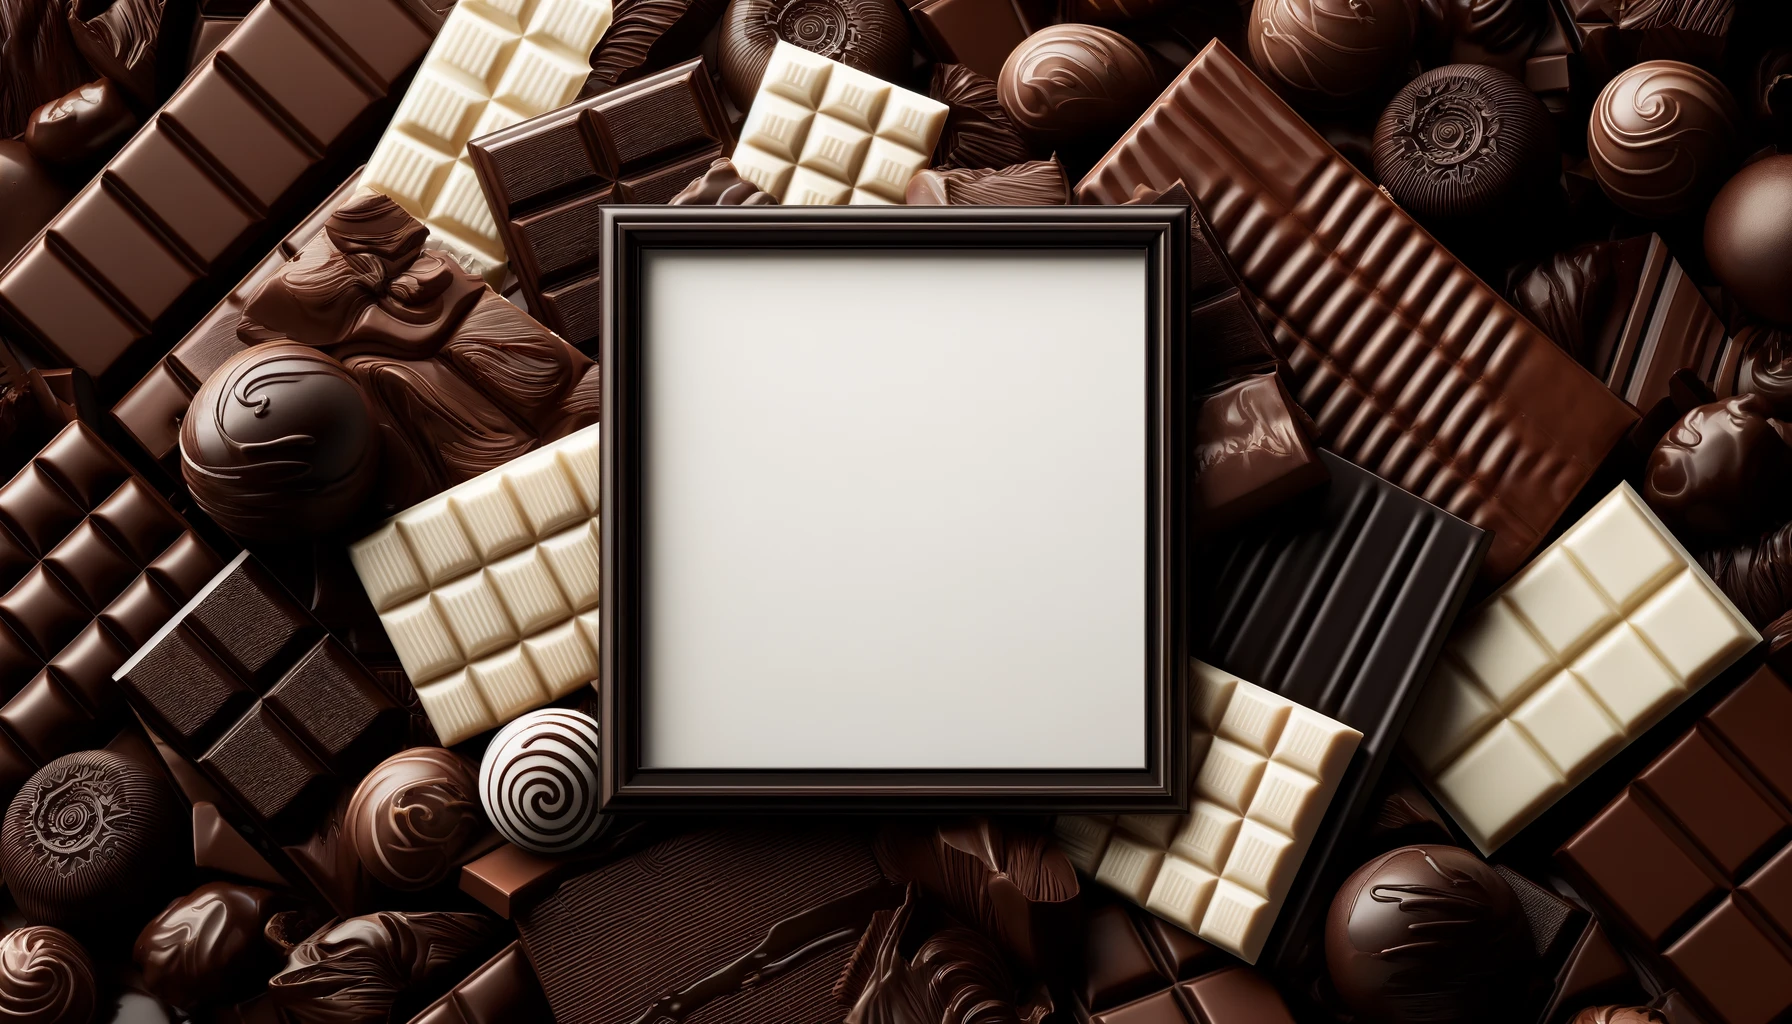
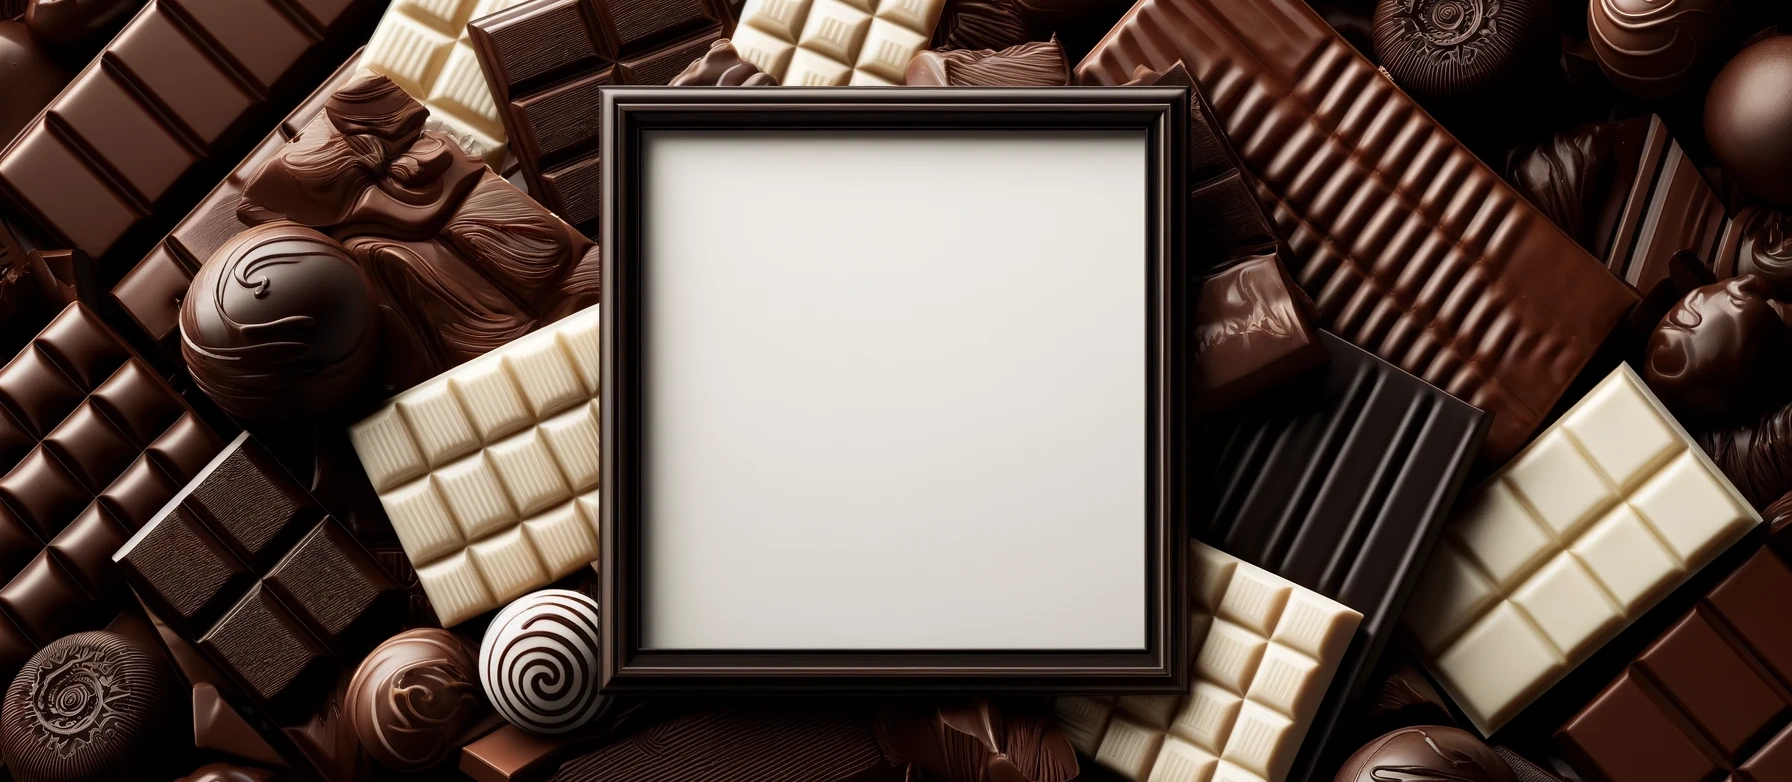
Size fix

diff --git a/src/Screens/MemoryScreen.js b/src/Screens/MemoryScreen.js
@@ -14,7 +14,7 @@ const BackgroundImage = require('../../assets/chocolate-background.webp');
 
 let timerInterval;
 const containerWidth = screenWidth * 0.9;
-const containerHeight = screenHeight * 0.9;
+const containerHeight = screenHeight * 0.8;
 
 // Shuffle and select unique pairs based on the required pair count
 const shuffleAndSelectCards = (pairCount) => {
@@ -121,26 +121,11 @@ const MemoryScreen = ({ route, navigation }) => {
         return (
             <Popup
                 isVisible={userResultPopupVisibility}
-                onClose={() => setUserResultPopupVisibility(false)}
-                titleText={'Rezultat Kviza'}
+                titleText={'Rezultat Spomina'}
+                messageText = {`Bravo, ${user}!\nZa zmago si potreboval/-a ${turns} potez!\nUpoštevajoč tvoj čas, je tvoj rezultat: ${score}`}
                 cancelOption={true}
-                wrapContent={
-                    <View style={{ alignSelf: 'center', justifyContent: 'center' }}>
-                        <ThemeText type={'popupBodyText'} style={{textAlign:'center'}}>
-                            {`Bravo, ${user}!`}
-                        </ThemeText>
-                        <ThemeText type={'popupBodyText'} style={{textAlign:'center'}}>
-                            {`You won in ${turns} turns!`}
-                        </ThemeText>
-                        <ThemeText type={'popupBodyText'} style={{textAlign:'center'}}>
-                            {`Upoštevajoč tvoj čas, je tvoj rezultat: ${score}`}
-                        </ThemeText>
-                        <View style={{ alignSelf: 'center', justifyContent: 'space-around', flexDirection: 'row', marginTop: screenHeight * 0.02 }}>
-                            <CustomButton type={'primary'} text={'Prekliči'} onButtonPress={() => setUserResultPopupVisibility(false)} style={{width: screenWidth * 0.1, marginRight: screenWidth * 0.01}}/>
-                            <CustomButton type={'primary'} text={'Potrdi'} onButtonPress={() => {setUserResultPopupVisibility(false); navigation.navigate('ListOfResultsScreen', { score, gridSize })}} style={{width: screenWidth * 0.1}} />
-                        </View>
-                    </View>
-                }
+                onClose={() => setUserResultPopupVisibility(false)}
+                onRightButtonPress={() => {setUserResultPopupVisibility(false); navigation.navigate('ListOfResultsScreen', { score, gridSize })}}                    
             />
         )
     }
@@ -171,7 +156,7 @@ const MemoryScreen = ({ route, navigation }) => {
                     {lastClickedCardName ? (
                         <ThemeText type='headerText'>{lastClickedCardName}</ThemeText>
                     ) : (
-                        <ThemeText type='headerText'>Click a card to see its name</ThemeText>
+                        <ThemeText type='headerText'>Klikni kartico, da vidiš njeno ime</ThemeText>
                     )}
                 </View>
                 <View style={styles.clockContainer}>
@@ -211,6 +196,9 @@ const MemoryScreen = ({ route, navigation }) => {
                         );
                     })}
                 </View>
+            </View>
+            <View style={styles.headerContainer}>
+                
             </View>
         </ImageBackground>
     );

diff --git a/src/Screens/HomeScreen.js b/src/Screens/HomeScreen.js
@@ -4,6 +4,7 @@ import { useFocusEffect } from '@react-navigation/native';
 import Toast from 'react-native-toast-message';
 import { ThemeContext, UserContext } from '../Context';
 import { ThemeInput, CustomButton } from '../Components';
+import { fontSize as FS } from '../Constants/Dimensions';
 import AsyncStorage from '@react-native-async-storage/async-storage';
 import { Picker } from '@react-native-picker/picker';
 
@@ -30,7 +31,7 @@ const HomeScreen = ({ navigation }) => {
     >
       <View style={{ flex: 1, alignItems: 'center', justifyContent: 'center', paddingHorizontal: 10 }}>
         <ThemeInput
-          style={{ marginVertical: 7 }}
+          style={{ marginTop: FS * 0.5}}
           label="Tvoje ime in priimek"
           required={true}
           returnKeyType="done"
@@ -44,7 +45,7 @@ const HomeScreen = ({ navigation }) => {
 
         <Picker
           selectedValue={gridSize}
-          style={{ height: 50, width: 200 }}
+          style={{ padding: FS * 0.1, width: '25%', backgroundColor: theme.secondaryColor, marginTop: FS * 0.5, borderRadius: FS * 0.5 }}
           onValueChange={(itemValue) => setGridSize(itemValue)}
         >
           <Picker.Item label="3x4 (12 cards)" value="3x4" />
@@ -53,24 +54,24 @@ const HomeScreen = ({ navigation }) => {
           <Picker.Item label="6x5 (30 cards)" value="6x5" />
           <Picker.Item label="6x6 (36 cards)" value="6x6" />
         </Picker>
-
-        <CustomButton
-          text="Začni s kvizom"
-          type="secondary"
-          style={{ backgroundColor: theme.primaryColor, color: theme.secondaryColor }}
-          onButtonPress={() => {
-            if (userName) {
-              setUser(userName); // Set the user name in context
-              navigation.navigate('MemoryScreen', { gridSize }); // Pass grid size to MemoryScreen
-            } else {
-              Toast.show({
-                type: 'info',
-                text1: 'Najprej vnesi svoje ime in priimek',
-                visibilityTime: 2500,
-              });
-            }
-          }}
-        />
+        <View style={{ marginTop: FS * 0.5 }}>
+          <CustomButton
+            text="Začni s kvizom"
+            type="primary"            
+            onButtonPress={() => {
+              if (userName) {
+                setUser(userName); // Set the user name in context
+                navigation.navigate('MemoryScreen', { gridSize }); // Pass grid size to MemoryScreen
+              } else {
+                Toast.show({
+                  type: 'info',
+                  text1: 'Najprej vnesi svoje ime in priimek',
+                  visibilityTime: 2500,
+                });
+              }
+            }}
+          />
+        </View>
       </View>
     </ImageBackground>
   );

diff --git a/src/Components/CustomButton.js b/src/Components/CustomButton.js
@@ -2,26 +2,33 @@ import React, { useContext } from 'react';
 import { TouchableOpacity, StyleSheet, Dimensions } from 'react-native';
 import { ThemeText } from '../Components';
 import { ThemeContext } from '../Context/ThemeContext';
+import { fontSize } from '../Constants/Dimensions';
 
-const { width, height, fontScale } = Dimensions.get('window')
+const { width, height, fontScale } = Dimensions.get('window');
 
 export default CustomButton = (props) => {
-  const { theme, toggleTheme, isDarkTheme } = useContext(ThemeContext);
+  const { theme } = useContext(ThemeContext);
 
   // Fallback to 'primary' if props.type is invalid or missing
   const type = props.type && styles[props.type] ? props.type : 'primary';
   const customWidth = props?.style?.width;
-  const fS = props.fS;
-  const disabled = props.disabled;
-  const backgroundColor = props.style?.backgroundColor || theme.buttonBackgroundColor;
-  const textColor = props.style?.color || theme.buttonTextColor; // Use color from props or fallback
+  const backgroundColor = props.customBackgroundColor 
+    ? props.customBackgroundColor 
+    : (type === 'primary' ? theme.buttonBackgroundColorPrimary : theme.buttonBackgroundColorSecondary);
+  const textColor = type === 'primary' ? theme.buttonTextColorPrimary : theme.buttonTextColorSecondary;
 
   return (
     <TouchableOpacity
       onPress={props.onButtonPress}
-      style={[ styles.button, { backgroundColor: props.style?.backgroundColor ?? theme.buttonBackgroundColor }, props.style]}
+      style={[
+        styles[type],
+        {
+          backgroundColor: backgroundColor,
+          ...(type === 'secondary' && customWidth ? { width: customWidth } : {}),
+        },
+      ]}
     >
-      <ThemeText type="buttonText" style={{ color: textColor }}>
+      <ThemeText type={type === 'primary' ? 'primaryButtonText' : 'secondaryButtonText'} style={{ color: textColor }}>
         {props.text}
       </ThemeText>
     </TouchableOpacity>
@@ -30,10 +37,23 @@ export default CustomButton = (props) => {
 
 const styles = StyleSheet.create({
   button: {
-    paddingVertical: 15,
-    paddingHorizontal: 20,
+    paddingVertical: fontScale * 3,
     borderRadius: fontScale * 10,
     alignItems: 'center',
-    justifyContent: 'center'
+    justifyContent: 'center',
+  },
+  primary: {
+    padding: fontSize * 0.5,
+    borderRadius: fontSize * 0.5,
+    alignItems: 'center',
+    justifyContent: 'center',
+    backgroundColor: '#371C0B',
+  },
+  secondary: {
+    padding: fontSize * 0.5,
+    borderRadius: fontSize * 0.5,
+    alignItems: 'center',
+    justifyContent: 'center',
+    backgroundColor: '#371C0B',
   },
 });

diff --git a/src/Components/Popup.js b/src/Components/Popup.js
@@ -11,12 +11,12 @@ export default function Popup({
   onClose, //Required
   titleText = 'Supply the popup with a title! (titleText)',
   messageText = 'Supply the popup with a message! (messageText)',
-  leftButtonText = 'Cancel',
+  leftButtonText = 'Prekliči',
   onLeftButtonPress,
-  rightButtonText = 'Submit',
+  rightButtonText = 'Potrdi',
   onRightButtonPress,
   cancelOption,
-  oneButtonText = 'Submit',
+  oneButtonText = 'Potrdi',
   wrapContent,
   loading,
   customHeight,
@@ -52,20 +52,21 @@ export default function Popup({
   const renderBody = () => {
     return (
       <View style={{ minHeight: height / 10, justifyContent: 'space-around' }}>
-        <ThemeText type="popupBodyText" style={{ textAlign: 'center' }} text={messageText} />
+        <ThemeText type="freeTextInvert" style={{ textAlign: 'center' }}>{messageText}</ThemeText>
         {!cancelOption ? (
           <CustomButton text={oneButtonText ? oneButtonText : 'Okay'} onButtonPress={onOneButtonPress} type={'primary'} />
         ) : (
           <View
             style={{
-              width: '100%',
-              flexDirection: 'column',
+              width: width * 0.5,
+              flexDirection: 'row',
               alignItems: 'center',
               justifyContent: 'space-evenly',
               marginTop: '5%'
-            }}>
-            <CustomButton text={leftButtonText} onButtonPress={onClose} type={'secondary'} />
-            <CustomButton text={rightButtonText} onButtonPress={onRightButtonPress} type={'secondary'} />
+            }}
+          >
+            <CustomButton text={leftButtonText} onButtonPress={onClose} type={'secondary'} /*customWidth={width * 0.2} */style={{width: width * 0.2}}/>
+            <CustomButton text={rightButtonText} onButtonPress={onRightButtonPress} type={'secondary'} /*customWidth={width * 0.2}*/ style={{width: width * 0.2}}/>
           </View>
         )}
       </View>
@@ -78,7 +79,7 @@ export default function Popup({
       <View
         style={{
           //height: customHeight && customHeight,
-          width: width * 0.3,
+          width: width * 0.5,
           alignItems: 'center',
           alignSelf: 'center',
           justifyContent: 'center',

diff --git a/src/Screens/ListOfResultsScreen.js b/src/Screens/ListOfResultsScreen.js
@@ -1,11 +1,13 @@
 import React, { useEffect, useState, useContext } from 'react';
 import { View, StyleSheet, ImageBackground, FlatList } from 'react-native';
-import { UserContext, ThemeContext } from '../Context';
+import { UserContext, ThemeContext, Colors } from '../Context';
 import { ThemeText, CustomButton } from '../Components';
+import { customPadding } from '../Constants/Dimensions';
 import AsyncStorage from '@react-native-async-storage/async-storage';
 import { Picker } from '@react-native-picker/picker';
+import { color } from '@rneui/base';
 
-const ChocolateBackground = require('../../assets/resized_chocolate_quiz_background_4K_UHD_v2.png');
+const ChocolateBackground = require('../../assets/background_11.webp');
 
 const ListOfResultsScreen = ({ route, navigation }) => {
   const { user } = useContext(UserContext);
@@ -84,7 +86,7 @@ const ListOfResultsScreen = ({ route, navigation }) => {
   return (
     <ImageBackground source={ChocolateBackground} style={styles.backgroundImage} resizeMode="stretch">
       <View style={styles.container}>
-        <ThemeText type={'popupHeaderText'} style={{ textAlign: 'center' }}>
+        <ThemeText type={'headerText'} style={{ textAlign: 'center', color: theme.primaryColor }}>
           {'Vodilna Lestvica'}
         </ThemeText>
 
@@ -92,7 +94,7 @@ const ListOfResultsScreen = ({ route, navigation }) => {
         <Picker
           selectedValue={selectedCategory}
           style={{width: '100%',
-            height: 50,
+            padding: customPadding,
             marginVertical: 10,backgroundColor: theme.secondaryColor}}
           onValueChange={(itemValue) => setSelectedCategory(itemValue)}
         >
@@ -139,7 +141,7 @@ const styles = StyleSheet.create({
   },
   container: {
     width: '20%',
-    height: '40%',
+    height: '60%',
     //padding: 20,
     justifyContent: 'center',
     alignItems: 'center',
@@ -159,7 +161,7 @@ const styles = StyleSheet.create({
   },
   nextPlayerButton: {
     marginTop: 20,
-    width: '70%',
+    width: '90%',
   },
   resetButton: {
     marginTop: 10,

diff --git a/src/Components/ThemeText.js b/src/Components/ThemeText.js
@@ -1,14 +1,18 @@
 import React, { useContext } from 'react'
 import { Text, Dimensions } from 'react-native'
 import { ThemeContext, Colors } from '../Context/ThemeContext'
+import { fontSize as FS } from '../Constants/Dimensions';
 
 const { fontScale } = Dimensions.get('window')
 const fontSize = {
   popupHeaderText: { fontSize: fontScale * 20, fontWeight: 'bold' },
   popupBodyText: { fontSize: fontScale * 16 },
-  headerText: { fontSize: fontScale * 20, fontWeight: 'bold' },
+  headerText: { fontSize: FS * 0.6, fontWeight: 'bold' },
   freeText: { fontSize: fontScale * 16 },
+  freeTextInvert: { fontSize: fontScale * 16 },
   buttonText: { fontSize: fontScale * 20, fontWeight: 'bold' },
+  primaryButtonText: { fontSize: FS * 0.75, fontWeight: 'bold' },
+  secondaryButtonText: { fontSize: FS * 0.6, fontWeight: 'bold' },
   errorMessage: { fontSize: fontScale * 15 },
   subHeader: { fontSize: fontScale * 14 },
   link: { fontSize: fontScale * 17 },
@@ -24,7 +28,10 @@ export default ThemeText = ({ type, style, onPress, children, ...rest }) => {
     popupBodyText: { color: theme.primaryColor },
     headerText: { color: theme.freeTextColor },
     freeText: { color: theme.freeTextColor },
+    freeTextInvert: { color: theme.freeTextColorInvert },
     buttonText: { color: theme.buttonTextColor },
+    primaryButtonText: { color: theme.primaryButtonText },
+    secondaryButtonText: { color: theme.secondaryButtonText },
     errorMessage: { color: Colors.red },
     subHeader: { color: theme.highlight2 },
     link: { color: Colors.blue, textDecorationLine: 'underline' },

diff --git a/src/Components/ThemeInput.js b/src/Components/ThemeInput.js
@@ -1,6 +1,7 @@
 import React, { useContext, useState } from 'react';
 import { TextInput, StyleSheet, Platform, Dimensions } from 'react-native';
 import { ThemeContext } from '../Context/ThemeContext';
+import { fontSize as FS } from '../Constants/Dimensions';
 
 const { width, height, fontScale } = Dimensions.get('window')
 
@@ -47,10 +48,9 @@ const styles = StyleSheet.create({
   input: {
     backgroundColor: '#F7F1D9',  // Light beige background color
     // Remove color from here
-    paddingVertical: 12,
-    paddingHorizontal: 20,
-    borderRadius: fontScale * 10,
-    fontSize: 16,
+    padding: FS * 0.5,
+    borderRadius: FS * 0.5,
+    fontSize: FS * 0.6,
     fontWeight: '600',
     shadowColor: '#371C0B',  // Dark shadow color
     shadowOpacity: 0.3,

diff --git a/src/Context/ThemeContext.js b/src/Context/ThemeContext.js
@@ -34,8 +34,13 @@ export const DarkTheme = {
   darkBackground: Colors.blackMetal,
   secondaryBackground: Colors.mediumBrown,
   freeTextColor: Colors.beige,
+  freeTextColorInvert: Colors.darkBrown,
   buttonBackgroundColor: Colors.beige,
+  buttonBackgroundColorPrimary: Colors.beige,
+  buttonBackgroundColorSecondary: Colors.darkBrown,
   buttonTextColor: Colors.darkBrown,
+  buttonTextColorPrimary: Colors.darkBrown,
+  buttonTextColorSecondary: Colors.beige,
   subtext: Colors.lightGrey,
   highlight: Colors.blue,
   shadow: Colors.transparent,
